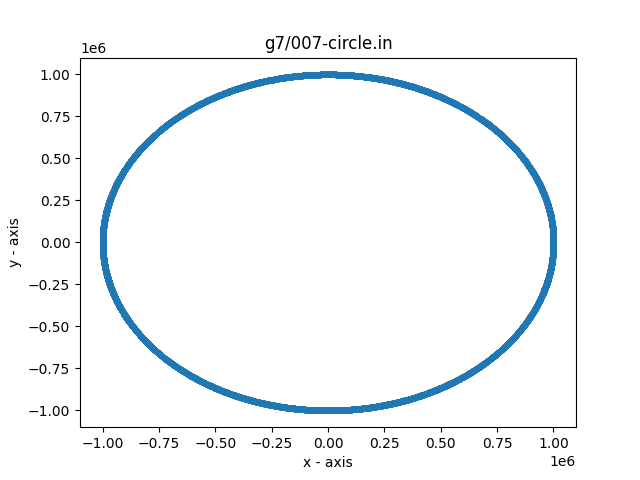
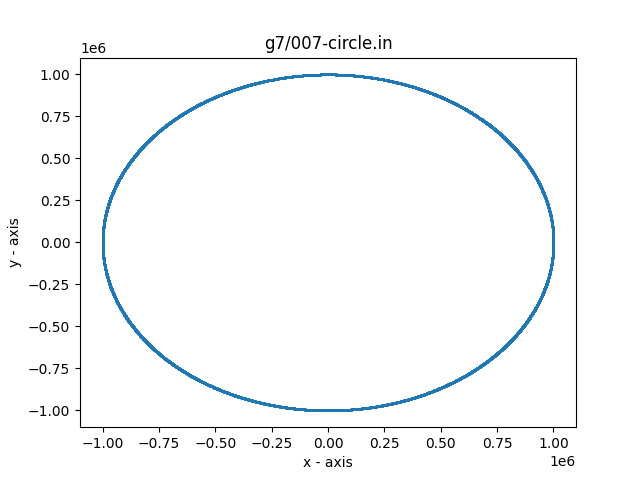
better plots

diff --git a/code/visualizer/plot.py b/code/visualizer/plot.py
@@ -19,7 +19,7 @@ for t in labels:
         x.append(currx)
         y.append(curry)
 
-    plt.scatter(x, y,s=10)
+    plt.scatter(x, y,s=1)
 
     plt.xlabel('x - axis')
 
